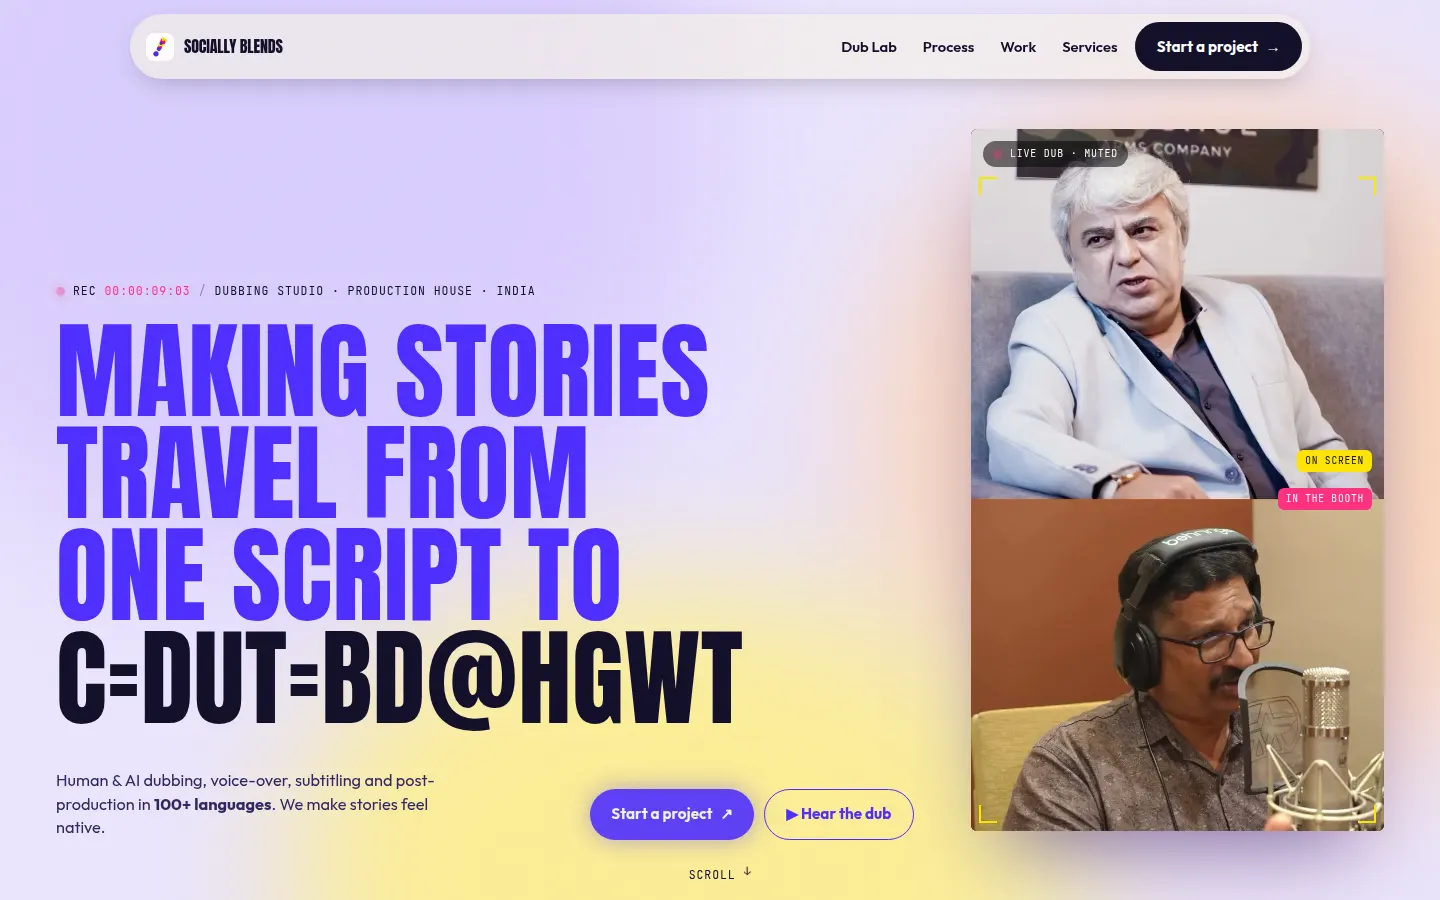
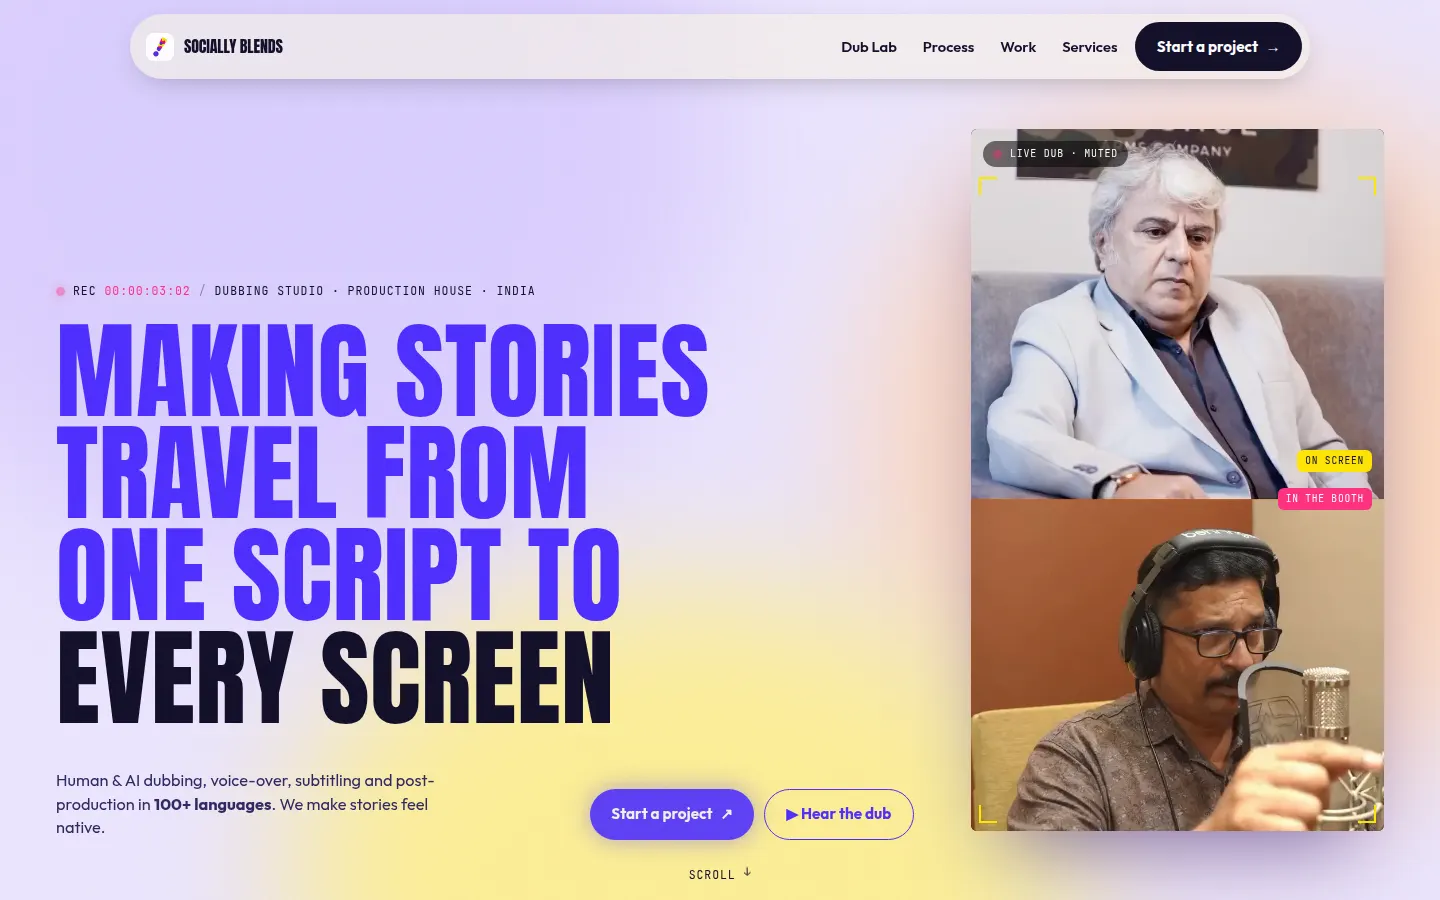
Socially Blends screenshot: clean headline frame; nav spy fix

diff --git a/index.html b/index.html
@@ -13,7 +13,7 @@
   <link rel="preconnect" href="https://fonts.googleapis.com">
   <link rel="preconnect" href="https://fonts.gstatic.com" crossorigin>
   <link href="https://fonts.googleapis.com/css2?family=Archivo:wdth,wght@62..125,400;62..125,500;62..125,700;62..125,800&family=Archivo+Black&display=swap" rel="stylesheet">
-  <link rel="stylesheet" href="swiss.css?v=1">
+  <link rel="stylesheet" href="swiss.css?v=2">
 </head>
 <body>
   <a class="skip" href="#work">Skip to work</a>
@@ -143,7 +143,7 @@
         <div class="row">
           <span class="when">2026 – now</span>
           <div><h3>Freelance software developer</h3><p>Took requirements from non-technical business owners and delivered production websites end to end, from scope to deploy. Example: a motion-heavy site for a dubbing studio.</p><p class="proj-links"><a href="https://socially-blends.vercel.app" target="_blank" rel="noopener">Socially Blends ↗</a></p></div>
-          <figure class="row-shot"><img src="assets/work/socially.webp" alt="Socially Blends dubbing studio website" loading="lazy" width="1440" height="900"></figure>
+          <figure class="row-shot"><img src="assets/work/socially.webp?v=2" alt="Socially Blends dubbing studio website" loading="lazy" width="1440" height="900"></figure>
         </div>
         <div class="row">
           <span class="when">Dec 2025 – Jan 2026</span>
@@ -204,7 +204,7 @@
   </dialog>
 
   <div class="toast" id="toast" role="status" aria-live="polite"></div>
-  <script src="swiss.js?v=1"></script>
+  <script src="swiss.js?v=2"></script>
   <script src="asteroid-run.js"></script>
 </body>
 </html>
